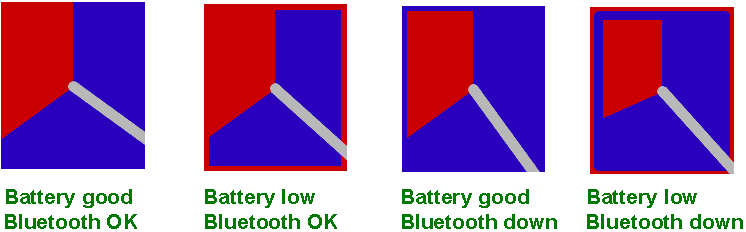
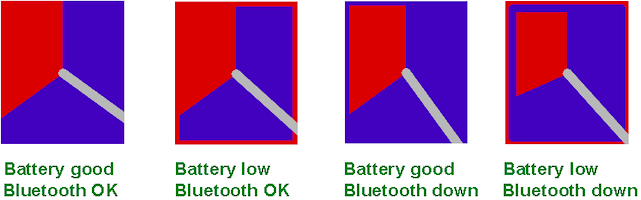
Some fixes to the readme file and pictures

diff --git a/README.md b/README.md
@@ -17,9 +17,9 @@ The background is a pie segment that goes from from 12:00 to where the hour hand
 ![Mockup showing 18:00](pics/18-00.jpg)
 ![Mockup showing 01:42](pics/01-42.jpg)
 
-Low battery charge (< 10 %) is indicated by a red frame around the watch face. A disconnected Bluetooth connection to the phone is indicated by a blue frame.
+Low battery charge (≤ 10 %) is indicated by a red frame around the watch face. A disconnected Bluetooth connection to the phone is indicated by a blue frame.
 
-![Picture of indicator frames](pics/indicators.jpg)
+![Picture of indicator frames](pics/indicators.png)
 
 ## Configuration
 
